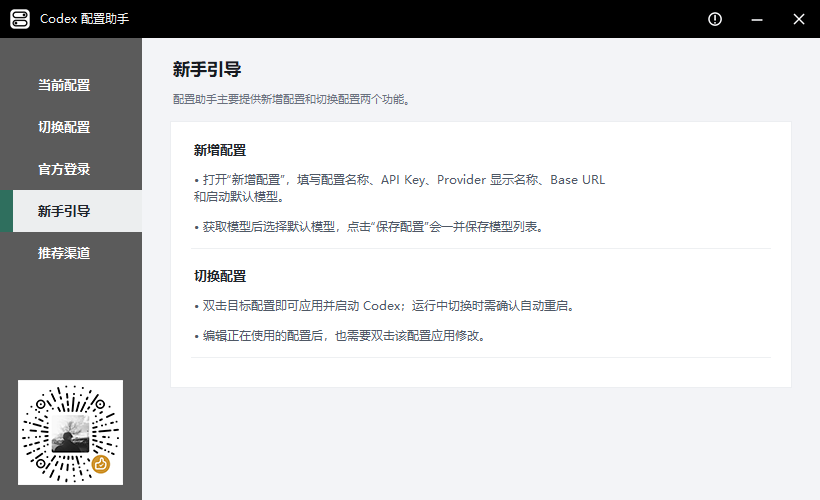
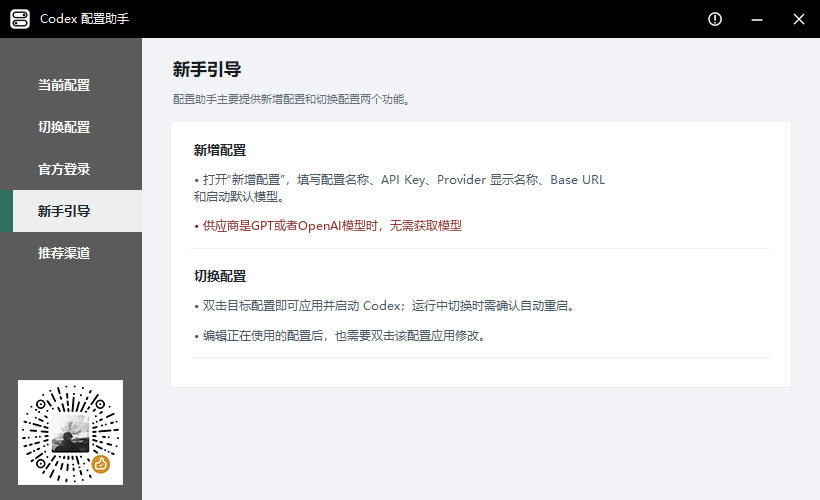
docs: 强调原生模型无需获取列表

Changed region(s): [[0.2439, 0.42, 0.6707, 0.48]]

diff --git a/codex_config_tool.py b/codex_config_tool.py
@@ -3864,14 +3864,16 @@ class CodexConfigApp(tk.Tk):
         page = self._new_page("guide")
         self._page_header(page, "新手引导", "配置助手主要提供新增配置和切换配置两个功能。")
         panel = self._panel(page, (20, 15))
+        important_model_hint = "供应商是GPT或者OpenAI模型时，无需获取模型"
         sections = (
-            ("新增配置", ("打开“新增配置”，填写配置名称、API Key、Provider 显示名称、Base URL 和启动默认模型。", "OpenAI 原生模型无需获取列表；第三方 Provider 获取模型后，保存时会一并保存模型列表。")),
+            ("新增配置", ("打开“新增配置”，填写配置名称、API Key、Provider 显示名称、Base URL 和启动默认模型。", important_model_hint)),
             ("切换配置", ("双击目标配置即可应用并启动 Codex；运行中切换时需确认自动重启。", "编辑正在使用的配置后，也需要双击该配置应用修改。")),
         )
         for title, messages in sections:
             tk.Label(panel, text=title, bg="#ffffff", fg="#20242b", anchor="w", font=("Microsoft YaHei UI", 10, "bold")).pack(anchor="w", pady=(0, 6))
             for message in messages:
-                tk.Label(panel, text="• " + message, bg="#ffffff", fg="#4f5865", justify="left", anchor="w", wraplength=500, font=("Microsoft YaHei UI", 9)).pack(anchor="w", pady=(0, 7))
+                message_color = "#8b2f2a" if message == important_model_hint else "#4f5865"
+                tk.Label(panel, text="• " + message, bg="#ffffff", fg=message_color, justify="left", anchor="w", wraplength=500, font=("Microsoft YaHei UI", 9)).pack(anchor="w", pady=(0, 7))
             tk.Frame(panel, bg="#eef0f2", height=1).pack(fill="x", pady=(3, 14))
 
     def _build_recommended_page(self) -> None:

diff --git a/tests/test_backup_management.py b/tests/test_backup_management.py
@@ -1989,6 +1989,8 @@ class BackupManagementTests(unittest.TestCase):
         self.assertIn('button_row.grid(row=7, column=0, columnspan=3', source)
         self.assertIn("OpenAI 原生模型无需获取列表", source)
         self.assertIn("“获取模型”仅用于第三方 Provider", source)
+        self.assertIn('important_model_hint = "供应商是GPT或者OpenAI模型时，无需获取模型"', source)
+        self.assertIn('message_color = "#8b2f2a" if message == important_model_hint', source)
         self.assertIn('JM2API_CHANNEL_URL = "https://jm2api.lol"', source)
         self.assertIn('JM2API_ICON_NAME = "jm2api.png"', source)
         self.assertIn('add_channel("JM2 API", JM2API_CHANNEL_URL, icon_image=self.jm2api_icon_image)', source)

diff --git a/docs/ai/CHANGE_REQUESTS.md b/docs/ai/CHANGE_REQUESTS.md
@@ -6,8 +6,8 @@
 原始请求：整理当前源码和文档，使用客户提供的新版界面截图更新项目说明，将最新已验证源码提交到 GitHub，并按现有版式重建 `v1.4.0` 发布包、标签和发布页。
 状态：RETEST
 验收标准：源码仓库不包含构建输出、缓存、真实用户配置或误展开的本地目录；README 和发布说明与当前行为一致；8 张正式界面截图更新并隐藏连接信息；118 项测试及发布构建通过；`main` 快进更新；`v1.4.0` 标签、源码归档、说明与两个新资产指向同一发布提交；`v1.0.0` 至 `v1.3.0` 不变。
-实现与验证：源码整理、8 张截图更新、完整测试、双包构建、版本资源、JM2 图标打包、隔离启动和 SHA-256 核验已通过；新增与编辑配置截图使用客户重新提供的脱敏版本，未把包含明文 Base URL 的旧附件写入仓库；弹窗、README 和发布说明均明确 OpenAI 原生模型无需获取列表，第三方 Provider 才使用模型获取；`main`、`v1.4.0` 标签、Release 说明、两个资产和 GitHub 源码归档统一以本提交为发布源。真实 Codex 工作流保留为客户复测项。
-相关记录：P-007A、P-007B、P-007C、DEV-031、DEV-032、DEV-033、TEST-007
+实现与验证：源码整理、8 张截图更新、完整测试、双包构建、版本资源、JM2 图标打包、隔离启动和 SHA-256 核验已通过；新增与编辑配置截图使用客户重新提供的脱敏版本，未把包含明文 Base URL 的旧附件写入仓库；弹窗、README 和发布说明均明确 OpenAI 原生模型无需获取列表，第三方 Provider 才使用模型获取；新手引导以暗红色重点显示“供应商是GPT或者OpenAI模型时，无需获取模型”；`main`、`v1.4.0` 标签、Release 说明、两个资产和 GitHub 源码归档统一以本提交为发布源。真实 Codex 工作流保留为客户复测项。
+相关记录：P-007A、P-007B、P-007C、DEV-031、DEV-032、DEV-033、DEV-034、TEST-007
 
 ## CR-006 - 每配置模型目录持久化与 Codex 内模型切换
 

diff --git a/docs/ai/PROJECT_STATUS.md b/docs/ai/PROJECT_STATUS.md
@@ -6,7 +6,7 @@
 - 已完成：当前配置页模型只读；新增/编辑仅单一保存并原子持久化完整模型列表；活动配置编辑使用待应用标记；双击配置统一应用、启动和自动重启；API/官方/API 往返不删除会话或聊天记录；8 张 README 正式截图已更新并对连接信息脱敏
 - 本轮修复：双击当前配置在 Codex 停止时可启动；待应用副本不会被旧 live 配置反向覆盖；运行且无修改时不重复重启；事务失败恢复 live、配置库、活动和待应用标记；新增/编辑提示合并到按钮行并明确 OpenAI 原生模型无需获取列表；推荐渠道新增 JM2 API
 - 验证：Python 3.12.13 语法检查、118 项标准库测试、`git diff --check`、PyInstaller 6.20.0 干净单文件构建、Inno Setup 6.7.3 编译、Windows 版本资源、JM2 打包资源及隔离启动通过；未修改真实 `.codex`、API Key 或聊天数据
[2 lines of base64/hex data omitted]
 - 下一步：客户复测双击当前配置启动、活动配置待应用、A→B→A 自动生命周期、聊天保留、任务栏和系统托盘
 - Git：本提交快进推送到 `origin/main`，并作为重建后的 `v1.4.0` 标签与 Release 源码
-- 相关记录：CR-006、CR-007、CR-008、BUG-004、P-006J、P-007A、P-007B、P-007C、DEV-031、DEV-032、DEV-033、TEST-006、TEST-007
+- 相关记录：CR-006、CR-007、CR-008、BUG-004、P-006J、P-007A、P-007B、P-007C、DEV-031、DEV-032、DEV-033、DEV-034、TEST-006、TEST-007

diff --git a/docs/ai/DEVELOPMENT_LOG.md b/docs/ai/DEVELOPMENT_LOG.md
@@ -368,3 +368,13 @@
 验证证据：Python 语法检查、118 项标准库测试和 `git diff --check` 通过；PyInstaller 6.20.0 与 Inno Setup 6.7.3 重建通过；隔离启动 4 秒保持运行并确认 JM2 资源存在。
 结果：程序、说明、截图和两个正式产物已同步；新哈希写入发布说明、验收报告和发布报告。
 待处理 Git 操作：快进推送本次修正并移动 `v1.4.0` 到最终提交，然后替换现有 Release 的两个资产和说明。
+
+## DEV-034 - 2026-09-01 - 新手引导强化原生模型提示
+
+阶段和模式：Release correction + packaging validation
+相关 ID：CR-008、P-007B、TEST-007
+客户请求：将新手引导新增配置部分的重点文案改为“供应商是GPT或者OpenAI模型时，无需获取模型”，并使用暗红色显示。
+工作内容：新增明确的重点消息变量，只对该条消息使用暗红色 `#8b2f2a`；同步 README 重点提示、CHANGELOG 和正式新手引导截图。
+验证证据：Python 语法检查、118 项标准库测试和 `git diff --check` 通过；截图为 `820×500`，暗红提示无换行或越界；PyInstaller 6.20.0、Inno Setup 6.7.3 重建和隔离启动通过。
+结果：界面、截图、文档和两个正式产物已同步，新产物哈希写入所有发布文档。
+待处理 Git 操作：快进推送本次修正并移动 `v1.4.0` 到最终提交，然后替换现有 Release 的两个资产和说明。

diff --git a/docs/ai/RELEASE_REPORT.md b/docs/ai/RELEASE_REPORT.md
@@ -5,8 +5,8 @@
 - 标签：`v1.4.0`，与发布提交一致
 - GitHub Release：https://github.com/z1099530893/Codex_ConfigTool/releases/tag/v1.4.0
 - 源码归档：GitHub 自动生成的 ZIP/TAR.GZ 均由 `v1.4.0` 标签生成
[4 lines of base64/hex data omitted]
 - 验证：Python 3.12.13 语法检查；118 项标准库测试；`git diff --check`；PyInstaller 6.20.0 干净构建；Inno Setup 6.7.3 编译；Windows 版本资源、JM2 资源和隔离启动验证
 - 已知限制：真实 Codex A→B→A、任务栏和系统托盘行为仍需客户在实际环境复测
 - 授权：客户于 2026-09-01 明确要求整理源码、提交 GitHub并重建现有 `v1.4.0` 发布包、标签和发布页

diff --git a/docs/ai/ACCEPTANCE_REPORT.md b/docs/ai/ACCEPTANCE_REPORT.md
@@ -7,8 +7,8 @@
 - PyInstaller 6.20.0 干净单文件构建和 Inno Setup 6.7.3 编译通过。
 - 便携版在隔离 `APPDATA`、`LOCALAPPDATA`、`USERPROFILE` 和 `CODEX_HOME` 下启动 4 秒仍运行；仅在隔离目录生成工具设置和临时解包文件，未访问真实 `.codex`。
 - 实际解包目录确认包含 AI Ark API 与新版 JM2 API 图标。
[4 lines of base64/hex data omitted]
 - 结论：GO（本地发布候选）；真实 Codex A→B→A、任务栏和系统托盘行为仍保留为客户实机复测项。
 
 ## 2026-08-31 统一保存与双击应用返工

diff --git a/docs/CHANGELOG.md b/docs/CHANGELOG.md
@@ -45,6 +45,7 @@
 - 增加 API-A → 官方登录 → API-K 的会话保留和双文件失败回滚测试
 - 当前配置页改为只读展示连接信息和启动默认模型；获取模型、下拉选择和手动输入仅保留在新增、编辑窗口
 - 新增、编辑弹窗明确提示 OpenAI 原生模型无需获取列表，“获取模型”仅用于第三方 Provider
+- 新手引导使用暗红色重点提示“供应商是GPT或者OpenAI模型时，无需获取模型”
 - 模型列表请求只在用户主动点击后发起，并设置超时、响应大小限制、禁止跨地址重定向和错误信息脱敏
 - 获取结果先保留在编辑事务中，只有点击“保存配置”或“保存修改”时才与连接信息和完整模型列表一起原子落盘；取消不修改磁盘
 - 新增、编辑仅保存配置库，不立即应用或启动 Codex；移除“保存并使用/保存并应用”以统一操作入口

diff --git a/docs/RELEASE_NOTES_1.4.0.md b/docs/RELEASE_NOTES_1.4.0.md
@@ -49,7 +49,7 @@
 
 | 文件 | 大小 | SHA-256 |
 | --- | ---: | --- |
[4 lines of base64/hex data omitted]
 
 验证环境：Windows 10 x64、Python 3.12、PyInstaller 6.20.0、Inno Setup 6.7.3。Python 语法检查、完整自动化测试、安装器检查、单文件构建和隔离启动验证均通过。

diff --git a/docs/ai/PROJECT_PLAN.md b/docs/ai/PROJECT_PLAN.md
@@ -16,7 +16,7 @@
 
 回滚点：旧 `v1.4.0` 标签提交 `12b5086c11d40d1a7b70b0ffddedab59e6c834ec`，旧 Release ID `377653760` 和两个旧资产 ID `533361707`、`533361556`。
 
-相关记录：CR-008、DEV-031、DEV-032、DEV-033、TEST-007。
+相关记录：CR-008、DEV-031、DEV-032、DEV-033、DEV-034、TEST-007。
 
 ## 当前里程碑：每配置模型目录与 Codex 内切换预览版
 
